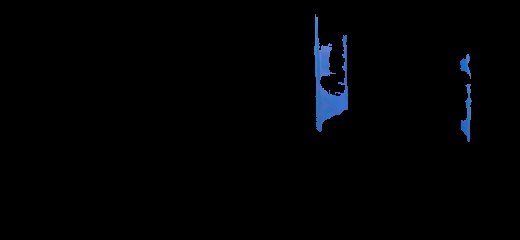
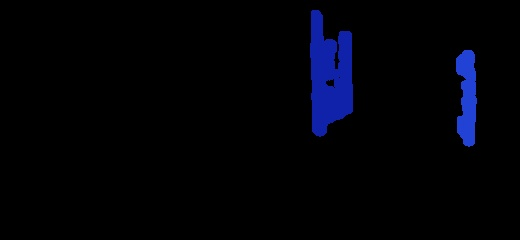
Blue filter and dialation single image

Changed region(s): [[0.5846, 0.0292, 0.7077, 0.5833], [0.8615, 0.2042, 0.9231, 0.6125]]

diff --git a/Gate_detection/gate_detector.py b/Gate_detection/gate_detector.py
@@ -57,12 +57,90 @@ def keep_tall_regions(mask: np.ndarray, min_height_width_ratio: float, min_area:
 	return tall_mask, kept_regions
 
 
+def cluster_blobs(mask: np.ndarray, dilation_kernel_size: int = 10) -> tuple[np.ndarray, int, list[dict]]:
+	"""
+	Use connected component analysis to find and label separate blobs.
+	Applies morphological dilation to close small gaps between blob parts.
+	
+	Args:
+		- mask: Binary mask of detected regions
+		- dilation_kernel_size: Size of the dilation kernel to close gaps. Larger = less strict clustering.
+	
+	Returns:
+		- labeled_mask: Image where each blob has a unique label (0 = background)
+		- num_blobs: Number of blobs found
+		- blob_info: List of dicts with stats for each blob (area, centroid, bounding box)
+	"""
+	# Dilate to close small gaps between blob parts
+	kernel = cv2.getStructuringElement(cv2.MORPH_ELLIPSE, (dilation_kernel_size, dilation_kernel_size))
+	dilated_mask = cv2.dilate(mask, kernel, iterations=1)
+	
+	# Perform connected component analysis on dilated mask
+	num_labels, labeled_mask = cv2.connectedComponents(dilated_mask, connectivity=8)
+	
+	blob_info = []
+	# num_labels includes background (label 0), so actual blobs are 1 to num_labels-1
+	for label in range(1, num_labels):
+		blob_mask = (labeled_mask == label).astype(np.uint8) * 255
+		area = cv2.countNonZero(blob_mask)
+		
+		# Find centroid
+		moments = cv2.moments(blob_mask)
+		if moments["m00"] > 0:
+			cx = int(moments["m10"] / moments["m00"])
+			cy = int(moments["m01"] / moments["m00"])
+		else:
+			cx, cy = 0, 0
+		
+		# Find bounding box
+		x, y, w, h = cv2.boundingRect(blob_mask)
+		
+		blob_info.append({
+			"label": label,
+			"area": area,
+			"centroid": (cx, cy),
+			"bbox": (x, y, w, h),
+		})
+	
+	return labeled_mask.astype(np.uint8), num_labels - 1, blob_info
+
+
+def colorize_blobs(labeled_mask: np.ndarray, num_blobs: int) -> np.ndarray:
+	"""
+	Colorize each blob with a different shade of blue.
+	
+	Returns:
+		- colored_image: RGB image with each blob colored differently
+	"""
+	# Create an empty RGB image
+	colored_image = np.zeros((labeled_mask.shape[0], labeled_mask.shape[1], 3), dtype=np.uint8)
+	
+	# Define a palette of blue shades (in BGR format for OpenCV)
+	# Each blob gets progressively darker or lighter blue
+	colors = []
+	for i in range(1, num_blobs + 1):
+		# Create variations of blue: hue stays around blue, vary saturation/value
+		ratio = i / (num_blobs + 1)
+		# Light to dark blue shades
+		blue = int(255 * (0.5 + 0.5 * ratio))
+		green = int(100 * ratio)
+		red = int(50 * ratio)
+		colors.append((blue, green, red))
+	
+	# Color each blob
+	for label in range(1, num_blobs + 1):
+		blob_mask = (labeled_mask == label)
+		colored_image[blob_mask] = colors[label - 1]
+	
+	return colored_image
+
+
 def rotate_filter_blue_and_save(
 	input_path: str,
 	output_path: str,
 	min_height_width_ratio: float = 1.8,
 	min_area: int = 80,
-) -> tuple[int, int]:
+) -> tuple[int, int, int, list[dict], np.ndarray]:
 	image = cv2.imread(input_path)
 	if image is None:
 		raise FileNotFoundError(f"Could not read image: {input_path}")
@@ -78,14 +156,21 @@ def rotate_filter_blue_and_save(
 		min_height_width_ratio=min_height_width_ratio,
 		min_area=min_area,
 	)
-	filtered = cv2.bitwise_and(rotated, rotated, mask=tall_blue_mask)
-
-	blue_pixel_count = int(cv2.countNonZero(tall_blue_mask))
-	saved = cv2.imwrite(output_path, filtered)
+	
+	# Cluster blobs to differentiate them
+	labeled_mask, num_blobs, blob_info = cluster_blobs(tall_blue_mask)
+	
+	# Colorize blobs
+	colored_blobs = colorize_blobs(labeled_mask, num_blobs)
+	
+	# Save colored visualization
+	saved = cv2.imwrite(output_path, colored_blobs)
 	if not saved:
 		raise RuntimeError(f"Failed to save image: {output_path}")
 
-	return blue_pixel_count, kept_regions
+	blue_pixel_count = int(cv2.countNonZero(tall_blue_mask))
+
+	return blue_pixel_count, kept_regions, num_blobs, blob_info, colored_blobs
 
 
 if __name__ == "__main__":
@@ -98,15 +183,24 @@ if __name__ == "__main__":
 	min_ratio = 1.8
 	min_area = 80
 
-	blue_pixels, kept_regions = rotate_filter_blue_and_save(
+	blue_pixels, kept_regions, num_blobs, blob_info, colored_image = rotate_filter_blue_and_save(
 		str(input_image),
 		str(output_image),
 		min_height_width_ratio=min_ratio,
 		min_area=min_area,
 	)
-	print(f"Saved tall-blue filtered image to: {output_image}")
+	print(f"Saved colored blob visualization to: {output_image}")
 	print(f"Detected blue pixels (tall only): {blue_pixels}")
 	print(f"Detected tall blue regions: {kept_regions}")
 	print(f"Used height/width ratio threshold: {min_ratio}")
 	print(f"Used minimum region area: {min_area}")
 	print(f"Using HSV bounds: {blue_hsv_bounds_from_samples()}")
+	print()
+	print(f"Clustered blobs found: {num_blobs}")
+	for i, blob in enumerate(blob_info, 1):
+		x, y, w, h = blob["bbox"]
+		cx, cy = blob["centroid"]
+		print(f"  Blob {i}:")
+		print(f"    Area: {blob['area']} pixels")
+		print(f"    Centroid: ({cx}, {cy})")
+		print(f"    Bounding box: x={x}, y={y}, width={w}, height={h}")
